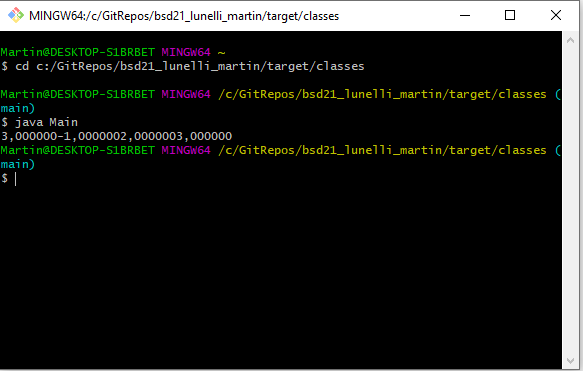
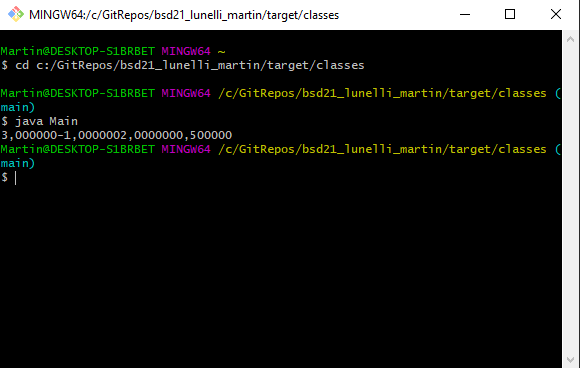
fixed minor error and updated screenshot

diff --git a/src/main/java/at/campus02/bsd/Calculator.java b/src/main/java/at/campus02/bsd/Calculator.java
@@ -23,7 +23,7 @@ public class Calculator
     public double divide(double number1, double number2)
     {
         double result=0;
-        result=number1+number2;
+        result=number1/number2;
         return result;
     }
 }
